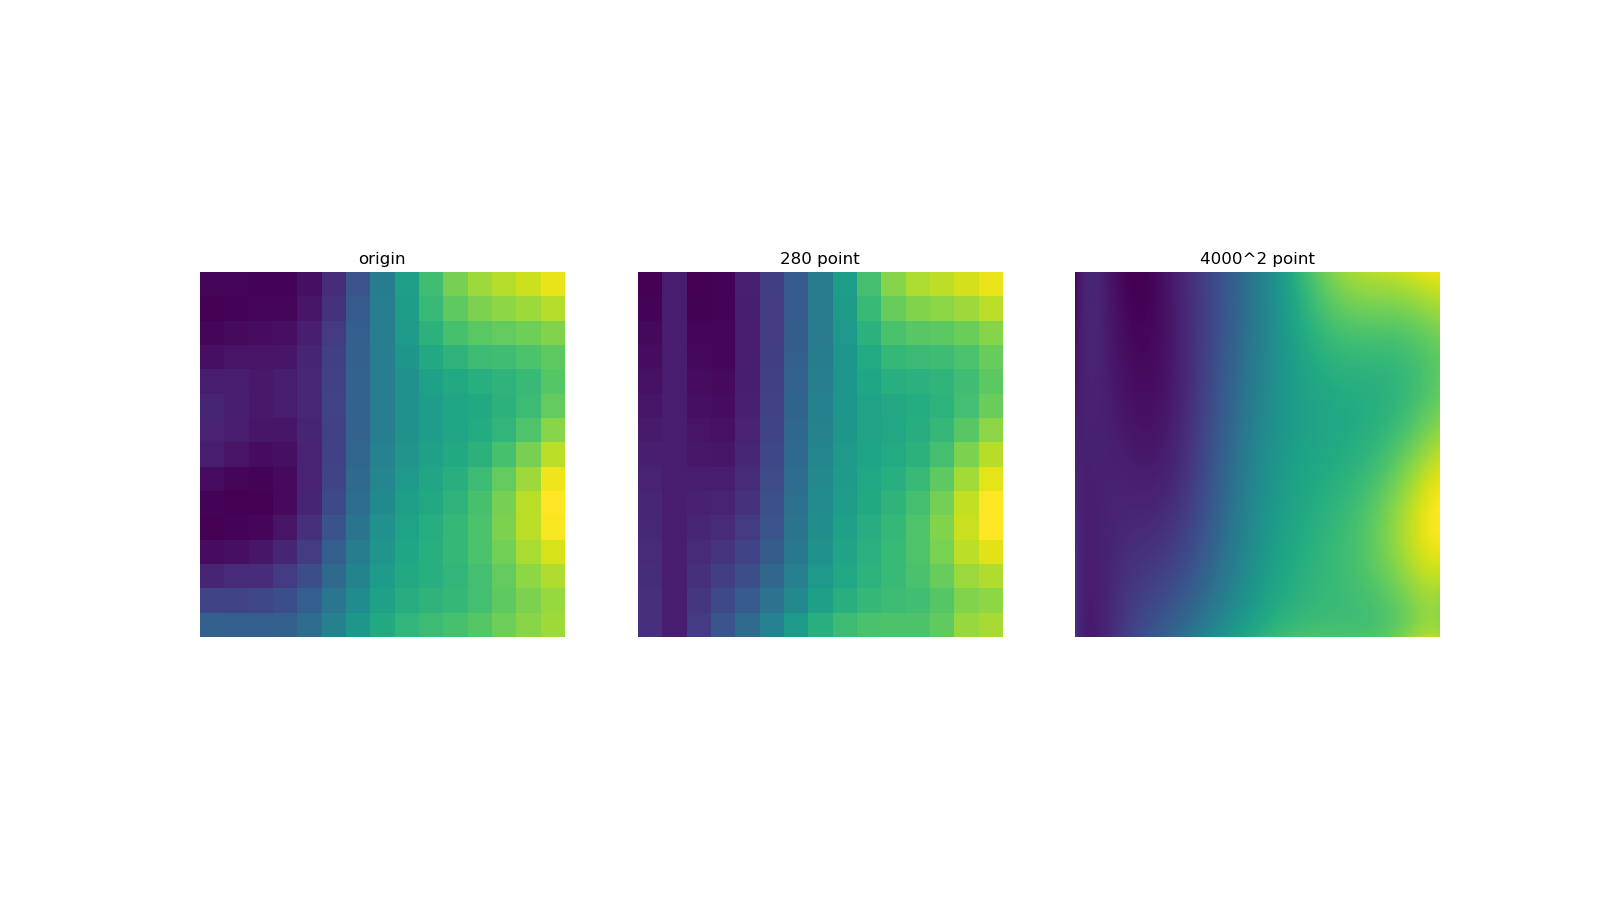
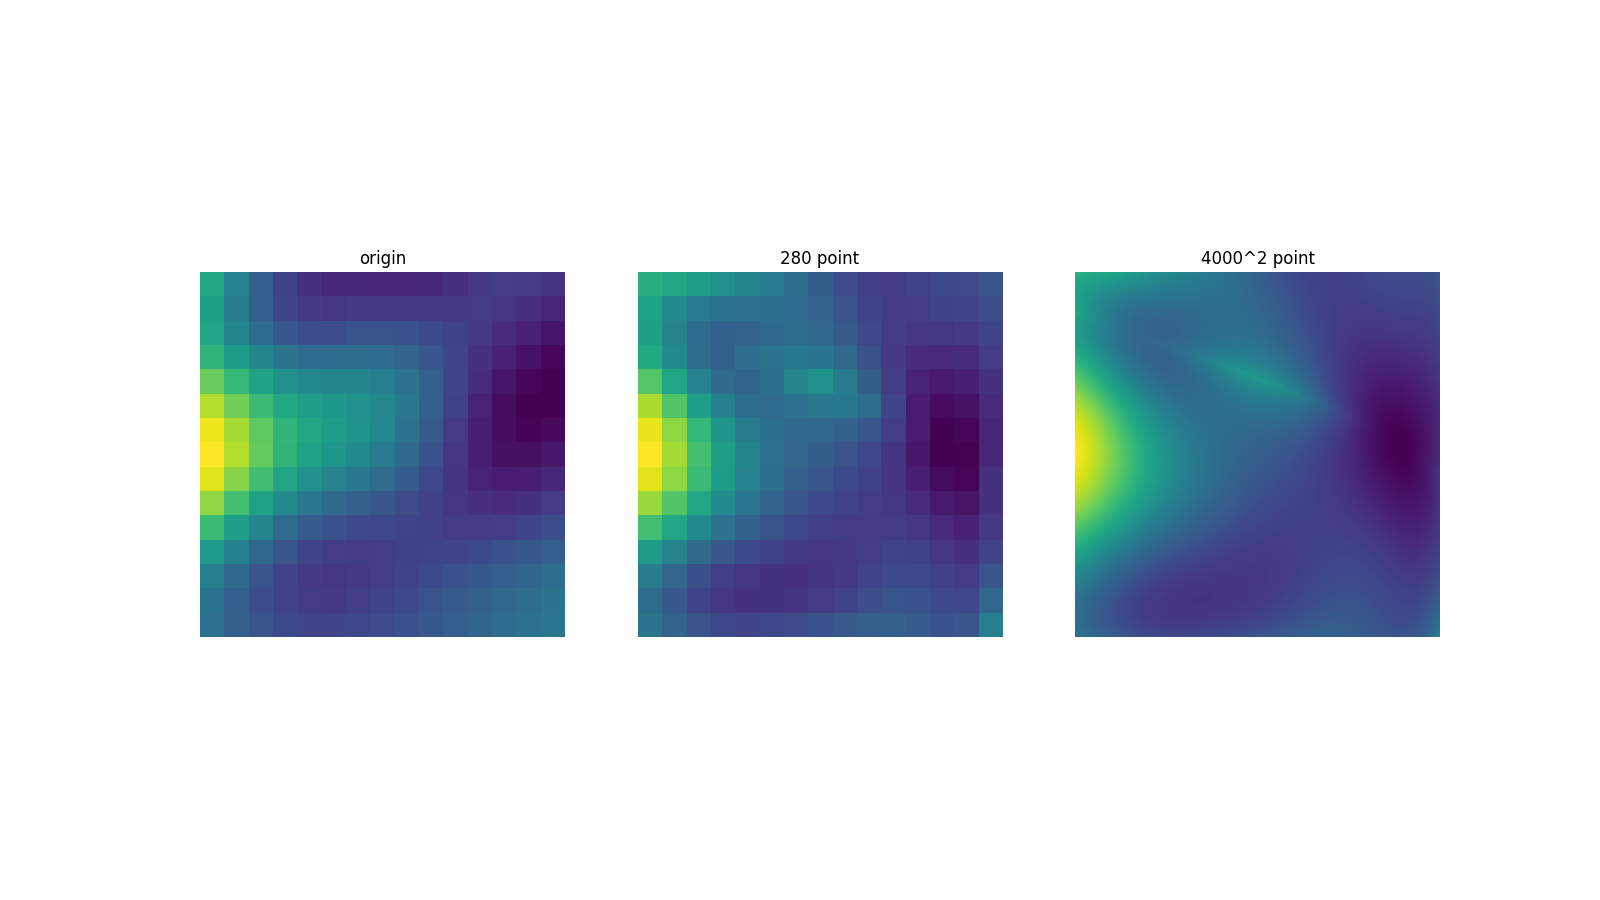
Use slurm-dask

Changed region(s): [[0.125, 0.28, 0.625, 0.7156], [0.6562, 0.28, 0.9062, 0.7156]]

diff --git a/src/workflow.py b/src/workflow.py
@@ -20,6 +20,7 @@ class Fit_iono:
         self.n_worker = args.n_worker
         self.plot_only = args.plot_only
         self.mac_run = args.mac_run
+        self.scheduler = args.scheduler
 
         output_dir = "./results"
         self.image_filename = "pixel_%d_step_%d.npy"%(self.npixel,self.steps)
@@ -66,10 +67,18 @@ class Fit_iono:
         npixel = self.npixel
         steps= self.steps
 
+        earth_r = 6371.393
+        iono_r  = earth_r + 300
+        screensize_km = iono_r * 5 * np.pi / 180
+        pixel_per_screensize_km = screensize_km / npixel
+        print ("pixel_per_screensize",pixel_per_screensize_km,"(km)")
+
         # new_lon_dataset = np.linspace(-5,65,npixel) # old
         # new_lat_dataset = np.linspace(-12.5,-47.5,npixel) # old
-        new_lon_dataset = np.linspace(70,140,npixel) 
-        new_lat_dataset = np.linspace(-2.5,-37.5,npixel)   
+        # new_lon_dataset = np.linspace(70,140,npixel) 
+        # new_lat_dataset = np.linspace(-2.5,-37.5,npixel)   
+        new_lon_dataset = np.linspace(116.4525771-2.5,116.4525771+2.5,npixel) 
+        new_lat_dataset = np.linspace(-26.60055525-2.5,-26.60055525+2.5,npixel)   
         beta_c_arr, lam_c_arr = spherical_triangle_transform(new_lon_dataset,new_lat_dataset,p_lat=np.radians(10),p_lon=np.radians(10)) 
         point_zip = zip_point(beta_c_arr, lam_c_arr)
 
@@ -81,12 +90,13 @@ class Fit_iono:
         steps= self.steps
         block_size = self.block_size
         n_worker = self.n_worker
+        scheduler = self.scheduler
 
         if n_worker == 1:
             data = concat_dataset_allpoint(point_zip,steps=steps)
         else:
             print ("Part 3, run on dask!")
-            data = concat_dask_workflow(point_zip=point_zip,steps=steps,block_size=block_size,n_worker=n_worker)
+            data = concat_dask_workflow(point_zip=point_zip,steps=steps,block_size=block_size,n_worker=n_worker,scheduler=scheduler)
         
         ans_shape = answer.shape[0]
         xdata_2 = data.reshape(-1,ans_shape)
@@ -117,5 +127,5 @@ class Fit_iono:
     def linux_run(self):
         answer = np.load(self.output_param_filename)
         point_zip = self.part_2()
-        print ("Part 2,finish")
+        print ("Part 2, finish")
         self.part_3(point_zip,answer)

diff --git a/src/apps/spherical_harmonic.py b/src/apps/spherical_harmonic.py
@@ -63,16 +63,25 @@ def concat_dataset(theta,lam_c,steps=5):
     return ans
 
 def concat_dataset_allpoint(point_zip,steps=5):
-    xdata = np.zeros((len(point_zip),30),np.float64)
+    a, b = point_zip[0]
+    c = concat_dataset(a,b,steps)
+    c_shape = c.shape[0]
+    xdata = np.zeros((len(point_zip),c_shape),np.float64)
     for i,(beta_c,lam_c) in enumerate(point_zip):
         xdata[i] = concat_dataset(beta_c,lam_c,steps)
     return xdata
 
-def concat_dask_workflow(point_zip,steps,block_size,n_worker):   
+def concat_dask_workflow(point_zip,steps,block_size,n_worker,scheduler):   
     import dask 
     from dask.distributed import Client
-    client = Client(n_workers=n_worker)
-    # print ("dask_board: ",str(client.dashboard_link))  
+    if scheduler == None:
+        client = Client(n_workers=n_worker)
+    else:
+        client = Client(scheduler)
+        print ("Client OK!, scheduler: ",scheduler)
+    # print ("dask_board: ",str(client.dashboard_link)) 
+
+    
     new_point_zip = point_zip.reshape(block_size,-1,2)
     task = list()
     for i in range (block_size):

diff --git a/main.py b/main.py
@@ -18,6 +18,7 @@ if __name__ == "__main__":
     parser.add_argument("-mr","--mac_run", default=False, action='store_true')
     parser.add_argument("-lr","--linux_run", default=False, action='store_true')
     parser.add_argument("-mmp","--make_mul_plot", default=False, action='store_true')
+    parser.add_argument("-sch","--scheduler", type=str)
 
     args = parser.parse_args()
     print (args)

diff --git a/README.md b/README.md
@@ -113,3 +113,7 @@ plt.show()
 + 缩小一个范围尝试
 + 对准相位中心
 + 写一个requirem
++ 参数args化
++ func : concat_dataset_allpoint 要改
++ 程序上拆开拟合图像部分
++ 改做dask_workflow
